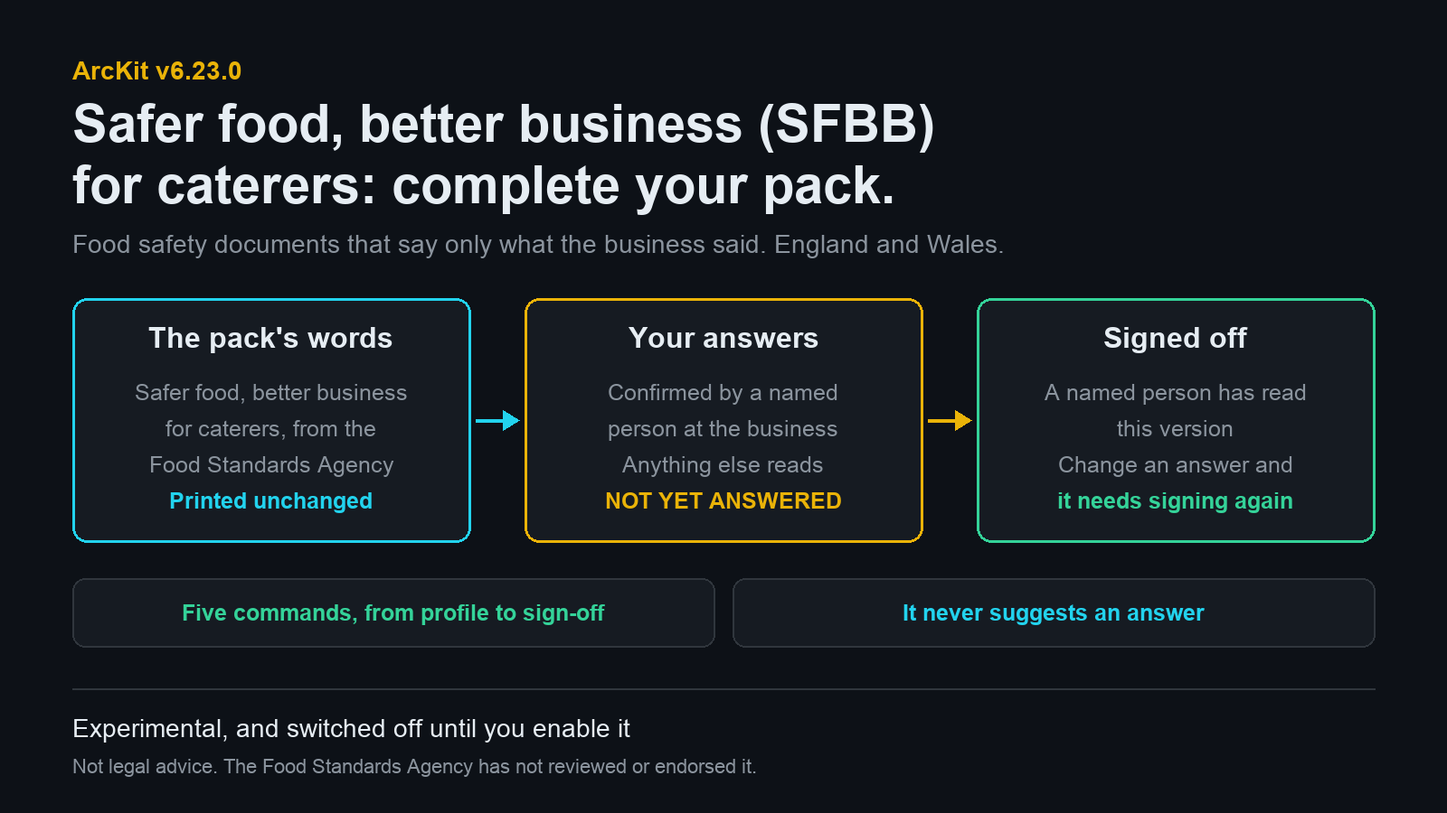
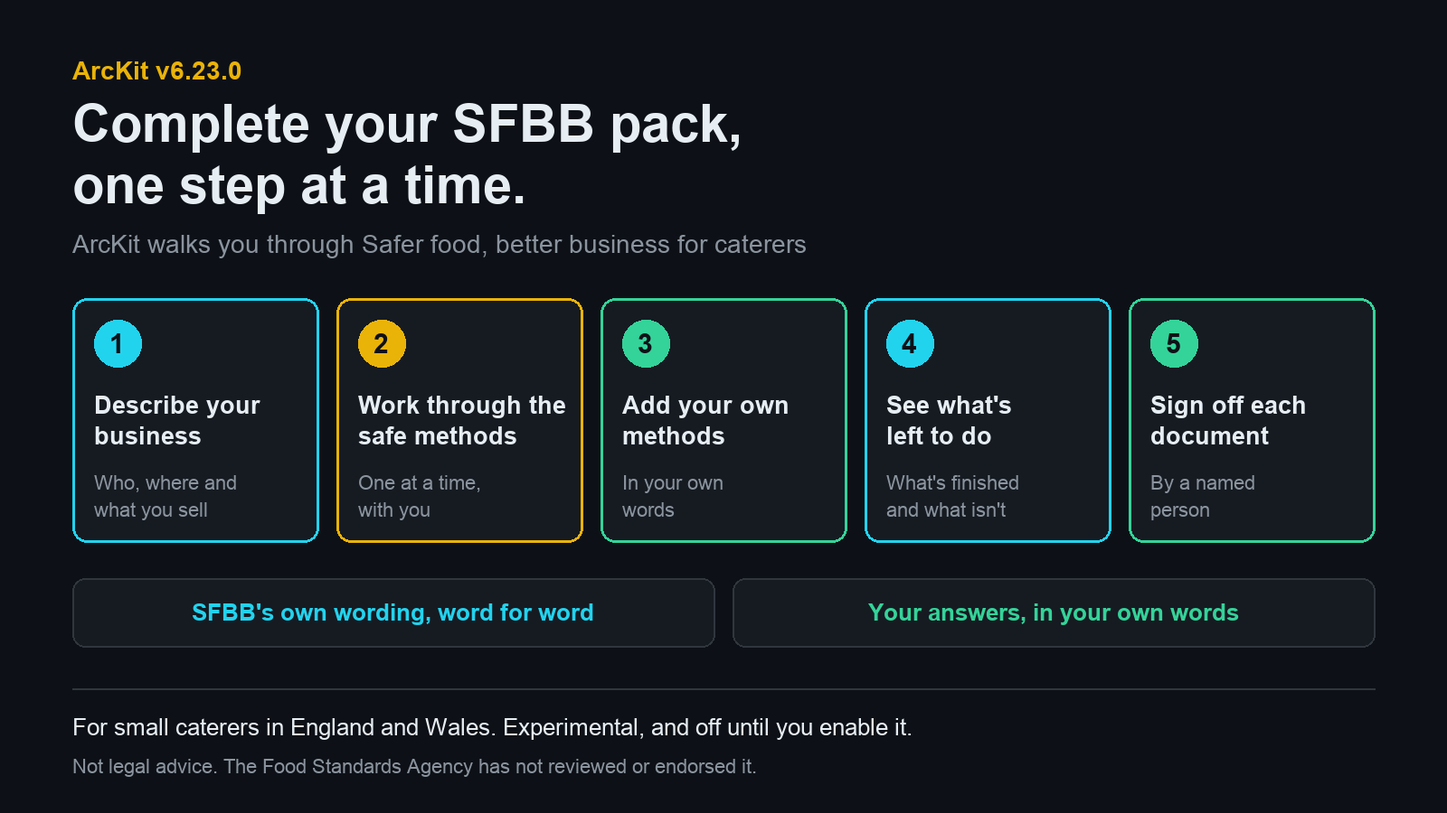
docs: the 6.23.0 article and its hero speak to the person using it
The hero said things the way the build said them: "the pack's words", "it
never suggests an answer", "only what the business said". It now shows what a
caterer does: the five steps ArcKit walks them through to complete their SFBB
pack, in SFBB's own wording and their own words.

The article's opening, its two principles and its list of commands are
reworded the same way: the steps come first and the command that does each
one second.

Claude-Session: https://claude.ai/code/session_01Hfsx56kefipenQbkB64qZ1

diff --git a/docs/share/2026-11-19-arckit-v6-23-safer-food-better-business-sfbb-for-caterers.html b/docs/share/2026-11-19-arckit-v6-23-safer-food-better-business-sfbb-for-caterers.html
@@ -14,19 +14,19 @@
     </script>
     <script>(function(){var t=localStorage.getItem('arckit-theme');if(t==='dark')document.documentElement.classList.add('dark-mode');else if(t==='light')document.documentElement.classList.add('light-mode');else if(window.matchMedia&&window.matchMedia('(prefers-color-scheme: dark)').matches)document.documentElement.classList.add('dark-mode')})();</script>
     <meta name="viewport" content="width=device-width, initial-scale=1, viewport-fit=cover">
-    <meta name="description" content="Complete your Safer food, better business (SFBB) pack for caterers with ArcKit: the pack&#x27;s wording unchanged, your own answers, a named person&#x27;s sign-off.">
+    <meta name="description" content="Complete your Safer food, better business (SFBB) pack for caterers one step at a time. ArcKit walks you through it, in SFBB&#x27;s wording and your own words.">
     <meta name="author" content="ArcKit">
     <title>Safer Food, Better Business (SFBB) for Caterers: Complete Your Pack with ArcKit v6.23.0</title>
     <meta property="og:title" content="Safer Food, Better Business (SFBB) for Caterers: Complete Your Pack with ArcKit v6.23.0">
-    <meta property="og:description" content="Complete your Safer food, better business (SFBB) pack for caterers with ArcKit: the pack&#x27;s wording unchanged, your own answers, a named person&#x27;s sign-off.">
+    <meta property="og:description" content="Complete your Safer food, better business (SFBB) pack for caterers one step at a time. ArcKit walks you through it, in SFBB&#x27;s wording and your own words.">
     <meta property="og:type" content="article">
     <meta property="og:url" content="https://arckit.org/share/2026-11-19-arckit-v6-23-safer-food-better-business-sfbb-for-caterers.html">
     <meta property="og:site_name" content="ArcKit">
     <meta property="og:image" content="https://arckit.org/articles/2026-11-19-arckit-v6-23-safer-food-better-business-sfbb-for-caterers-hero.png">
-    <meta property="og:image:alt" content="ArcKit v6.23.0 hero: Safer food, better business (SFBB) for caterers in England and Wales. The overlay prints the words of the Food Standards Agency&#x27;s pack unchanged, shows the business&#x27;s answers only once a named person has confirmed them, with anything else reading NOT YET ANSWERED, and records a named person&#x27;s sign-off of each version.">
+    <meta property="og:image:alt" content="Complete your SFBB pack, one step at a time. ArcKit v6.23.0 walks you through Safer food, better business for caterers in five steps: describe your business; work through the safe methods, one at a time; add your own methods, in your own words; see what&#x27;s left to do; and sign off each document. It uses SFBB&#x27;s own wording, word for word, and keeps your answers in your own words. For small caterers in England and Wales. Experimental, and off until you enable it. Not legal advice: the Food Standards Agency has not reviewed or endorsed it.">
     <meta name="twitter:card" content="summary_large_image">
     <meta name="twitter:title" content="Safer Food, Better Business (SFBB) for Caterers: Complete Your Pack with ArcKit v6.23.0">
-    <meta name="twitter:description" content="Complete your Safer food, better business (SFBB) pack for caterers with ArcKit: the pack&#x27;s wording unchanged, your own answers, a named person&#x27;s sign-off.">
+    <meta name="twitter:description" content="Complete your Safer food, better business (SFBB) pack for caterers one step at a time. ArcKit walks you through it, in SFBB&#x27;s wording and your own words.">
     <meta name="twitter:image" content="https://arckit.org/articles/2026-11-19-arckit-v6-23-safer-food-better-business-sfbb-for-caterers-hero.png">
     <link rel="canonical" href="https://arckit.org/share/2026-11-19-arckit-v6-23-safer-food-better-business-sfbb-for-caterers.html">
     <link rel="alternate" type="text/markdown" href="https://arckit.org/articles/2026-11-19-arckit-v6-23-safer-food-better-business-sfbb-for-caterers.md">
@@ -201,7 +201,7 @@
                 "@type": "Article",
                 "@id": "https://arckit.org/share/2026-11-19-arckit-v6-23-safer-food-better-business-sfbb-for-caterers.html",
                 "headline": "Safer Food, Better Business (SFBB) for Caterers: Complete Your Pack with ArcKit v6.23.0",
-                "description": "Complete your Safer food, better business (SFBB) pack for caterers with ArcKit: the pack's wording unchanged, your own answers, a named person's sign-off.",
+                "description": "Complete your Safer food, better business (SFBB) pack for caterers one step at a time. ArcKit walks you through it, in SFBB's wording and your own words.",
                 "url": "https://arckit.org/share/2026-11-19-arckit-v6-23-safer-food-better-business-sfbb-for-caterers.html",
                 "image": "https://arckit.org/articles/2026-11-19-arckit-v6-23-safer-food-better-business-sfbb-for-caterers-hero.png",
                 "inLanguage": "en-GB",
@@ -287,17 +287,17 @@
         <div class="govuk-width-container app-page-hero__content">
             <span class="app-page-hero__stat">19 November 2026</span>
             <h1 class="app-page-hero__title">Safer Food, Better Business (SFBB) for Caterers: Complete Your Pack with ArcKit v6.23.0</h1>
-            <p class="app-page-hero__description">Safer food, better business (SFBB) for caterers is the Food Standards Agency&#x27;s food safety pack for small catering businesses. ArcKit v6.23.0 adds an optional overlay that helps you complete your SFBB pack: it works…</p>
+            <p class="app-page-hero__description">Safer food, better business (SFBB) for caterers is the Food Standards Agency&#x27;s food safety pack for small catering businesses. ArcKit v6.23.0 adds an optional overlay that walks you through your SFBB pack one step at a…</p>
         </div>
     </div>
 
     <main class="govuk-main-wrapper" id="main-content" role="main">
         <div class="govuk-width-container">
             <a href="../articles.html" class="govuk-back-link govuk-!-margin-bottom-6">Back to Articles</a>
-<img class="app-article-hero-img" src="../articles/2026-11-19-arckit-v6-23-safer-food-better-business-sfbb-for-caterers-hero.png" alt="ArcKit v6.23.0 hero: Safer food, better business (SFBB) for caterers in England and Wales. The overlay prints the words of the Food Standards Agency&#x27;s pack unchanged, shows the business&#x27;s answers only once a named person has confirmed them, with anything else reading NOT YET ANSWERED, and records a named person&#x27;s sign-off of each version.">
+<img class="app-article-hero-img" src="../articles/2026-11-19-arckit-v6-23-safer-food-better-business-sfbb-for-caterers-hero.png" alt="Complete your SFBB pack, one step at a time. ArcKit v6.23.0 walks you through Safer food, better business for caterers in five steps: describe your business; work through the safe methods, one at a time; add your own methods, in your own words; see what&#x27;s left to do; and sign off each document. It uses SFBB&#x27;s own wording, word for word, and keeps your answers in your own words. For small caterers in England and Wales. Experimental, and off until you enable it. Not legal advice: the Food Standards Agency has not reviewed or endorsed it.">
 <div class="app-article-meta"><span class="app-article-meta__date">19 November 2026</span></div>
 <article id="content" class="app-markdown">
-<p><strong>Safer food, better business (SFBB) for caterers is the Food Standards Agency's food safety pack for small catering businesses. ArcKit v6.23.0 adds an optional overlay that helps you complete your SFBB pack: it works through each safe method with you, prints the pack's wording unchanged, and never fills in an answer for you.</strong></p>
+<p><strong>Safer food, better business (SFBB) for caterers is the Food Standards Agency's food safety pack for small catering businesses. ArcKit v6.23.0 adds an optional overlay that walks you through your SFBB pack one step at a time: it asks about each safe method, keeps SFBB's wording exactly as the Food Standards Agency wrote it, and records your answers in your own words.</strong></p>
 <p><em>Mark Craddock · <a href="http://medium.com/arckit">medium.com/arckit</a></em></p>
 <hr />
 <h2 id="what-is-safer-food-better-business-sfbb">What is Safer food, better business (SFBB)?</h2>
@@ -306,19 +306,18 @@
 <h2 id="completing-your-sfbb-pack-with-arckit">Completing your SFBB pack with ArcKit</h2>
 <p>This overlay isn't for architects. It's for a café, a takeaway, a restaurant, a pub kitchen or a mobile caterer.</p>
 <p><code>arckit-uk-food</code> turns the pack into a set of food safety documents of the business's own: its answers, its own methods, and a named person who has read each one and signed it off. It's experimental, and it's switched off until you enable it.</p>
-<h2 id="two-rules">Two rules</h2>
-<p>Everything in it follows from two rules.</p>
-<p><strong>The pack's wording isn't rewritten.</strong> All 100 pages come with the overlay. The assistant doesn't write that text into your document. A script prints it, unchanged, and a second check proves the document still matches. So a temperature or a time in your document is the one the pack prints.</p>
-<p><strong>A document says only what the business said.</strong> Anything nobody at the business has confirmed reads NOT YET ANSWERED. The commands never suggest an answer. If nobody is there to answer, nothing is confirmed and nothing is signed.</p>
+<h2 id="two-things-you-can-rely-on">Two things you can rely on</h2>
+<p><strong>SFBB's wording isn't rewritten.</strong> All 100 pages come with the overlay. The assistant doesn't write that text into your document. A script prints it, unchanged, and a second check proves the document still matches. So a temperature or a time in your document is the one the pack prints.</p>
+<p><strong>Your answers are yours.</strong> ArcKit asks the questions and you answer them. Anything nobody at the business has confirmed reads NOT YET ANSWERED, so you can always see what is still to do. If nobody is there to answer, nothing is confirmed and nothing is signed.</p>
 <p>One of the tests shows what that means. The owner of an invented café gives four answers about cooking, then says &quot;for everything else just put whatever is usual for a cafe like ours&quot;. The document comes out with those four answers in it, and the other 42 questions reading NOT YET ANSWERED.</p>
-<h2 id="five-commands-in-order">Five commands, in order</h2>
-<ul>
-<li><code>/arckit-uk-food:uk-food-profile</code> records the business: who runs it, where it is, what it sells, its equipment and staff, and whether it does anything that needs extra care.</li>
-<li><code>/arckit-uk-food:uk-food-safe-methods</code> works through one of the pack's five sections with you, one safe method at a time: cross-contamination, cleaning, chilling, cooking and management.</li>
-<li><code>/arckit-uk-food:uk-food-own-methods</code> records the business's own methods, word for word.</li>
-<li><code>/arckit-uk-food:uk-food-check</code> shows what's finished, what's still waiting for an answer and what has been signed off.</li>
-<li><code>/arckit-uk-food:uk-food-sign-off</code> records a named person's sign-off of a finished document.</li>
-</ul>
+<h2 id="the-five-steps">The five steps</h2>
+<ol>
+<li><strong>Describe your business.</strong> <code>/arckit-uk-food:uk-food-profile</code> records who runs it, where it is, what it sells, its equipment and staff, and whether it does anything that needs extra care.</li>
+<li><strong>Work through the safe methods.</strong> <code>/arckit-uk-food:uk-food-safe-methods</code> takes one of the pack's five sections at a time, one safe method at a time: cross-contamination, cleaning, chilling, cooking and management.</li>
+<li><strong>Add your own methods.</strong> <code>/arckit-uk-food:uk-food-own-methods</code> records how your business does things, word for word.</li>
+<li><strong>See what's left to do.</strong> <code>/arckit-uk-food:uk-food-check</code> shows what's finished, what's still waiting for an answer and what has been signed off.</li>
+<li><strong>Sign off each document.</strong> <code>/arckit-uk-food:uk-food-sign-off</code> records a named person's sign-off of a finished document.</li>
+</ol>
 <p>Setting up is done once, by someone comfortable with a terminal. After that you answer in ordinary words.</p>
 <h2 id="a-sign-off-means-someone-read-it">A sign-off means someone read it</h2>
 <p>A sign-off records a name, a role, a date and the version that person read. It covers the document exactly as it reads when it's signed.</p>

diff --git a/docs/articles.html b/docs/articles.html
@@ -336,7 +336,7 @@
                 <!-- 2026-11-19 Safer Food, Better Business (SFBB) for Caterers: Complete Your Pack with ArcKit v6.23.0 -->
                 <article class="app-article-card">
                     <a class="app-article-card__media" href="share/2026-11-19-arckit-v6-23-safer-food-better-business-sfbb-for-caterers.html">
-                        <img src="articles/2026-11-19-arckit-v6-23-safer-food-better-business-sfbb-for-caterers-hero.png" alt="ArcKit v6.23.0 hero: Safer food, better business (SFBB) for caterers in England and Wales. The overlay prints the words of the Food Standards Agency's pack unchanged, shows the business's answers only once a named person has confirmed them, with anything else reading NOT YET ANSWERED, and records a named person's sign-off of each version." loading="lazy">
+                        <img src="articles/2026-11-19-arckit-v6-23-safer-food-better-business-sfbb-for-caterers-hero.png" alt="Complete your SFBB pack, one step at a time. ArcKit v6.23.0 walks you through Safer food, better business for caterers in five steps: describe your business; work through the safe methods, one at a time; add your own methods, in your own words; see what's left to do; and sign off each document. It uses SFBB's own wording, word for word, and keeps your answers in your own words. For small caterers in England and Wales. Experimental, and off until you enable it. Not legal advice: the Food Standards Agency has not reviewed or endorsed it." loading="lazy">
                     </a>
                     <div class="app-article-card__body">
                         <div class="app-article-card__meta">
@@ -344,7 +344,7 @@
                             <span class="app-article-card__date">19 November 2026</span>
                         </div>
                         <h2 class="govuk-heading-s app-article-card__title">Safer Food, Better Business (SFBB) for Caterers: Complete Your Pack with ArcKit v6.23.0</h2>
-                        <p class="app-article-card__summary">Complete your Safer food, better business (SFBB) pack for caterers with ArcKit: the pack's wording unchanged, your own answers, a named person's sign-off.</p>
+                        <p class="app-article-card__summary">Complete your Safer food, better business (SFBB) pack for caterers one step at a time. ArcKit walks you through it, in SFBB's wording and your own words.</p>
                         <a href="share/2026-11-19-arckit-v6-23-safer-food-better-business-sfbb-for-caterers.html" class="govuk-link app-article-card__link">Read article &rarr;</a>
                     </div>
                 </article>

diff --git a/docs/index.html b/docs/index.html
@@ -889,7 +889,7 @@
             <div class="app-article-teaser-grid">
                 <article class="app-article-teaser">
                     <a class="app-article-teaser__media" href="share/2026-11-19-arckit-v6-23-safer-food-better-business-sfbb-for-caterers.html">
-                        <img src="articles/2026-11-19-arckit-v6-23-safer-food-better-business-sfbb-for-caterers-hero.png" alt="ArcKit v6.23.0 hero: Safer food, better business (SFBB) for caterers in England and Wales. The overlay prints the words of the Food Standards Agency's pack unchanged, shows the business's answers only once a named person has confirmed them, with anything else reading NOT YET ANSWERED, and records a named person's sign-off of each version." loading="lazy">
+                        <img src="articles/2026-11-19-arckit-v6-23-safer-food-better-business-sfbb-for-caterers-hero.png" alt="Complete your SFBB pack, one step at a time. ArcKit v6.23.0 walks you through Safer food, better business for caterers in five steps: describe your business; work through the safe methods, one at a time; add your own methods, in your own words; see what's left to do; and sign off each document. It uses SFBB's own wording, word for word, and keeps your answers in your own words. For small caterers in England and Wales. Experimental, and off until you enable it. Not legal advice: the Food Standards Agency has not reviewed or endorsed it." loading="lazy">
                     </a>
                     <div class="app-article-teaser__body">
                         <div class="app-article-teaser__meta">
@@ -897,7 +897,7 @@
                             <span class="app-article-teaser__date">19 November 2026</span>
                         </div>
                         <h3 class="govuk-heading-s app-article-teaser__title">Safer Food, Better Business (SFBB) for Caterers: Complete Your Pack with ArcKit v6.23.0</h3>
-                        <p class="app-article-teaser__summary">Complete your Safer food, better business (SFBB) pack for caterers with ArcKit: the pack's wording unchanged, your own answers, a named person's sign-off.</p>
+                        <p class="app-article-teaser__summary">Complete your Safer food, better business (SFBB) pack for caterers one step at a time. ArcKit walks you through it, in SFBB's wording and your own words.</p>
                         <a href="share/2026-11-19-arckit-v6-23-safer-food-better-business-sfbb-for-caterers.html" class="govuk-link app-article-teaser__link">Read article &rarr;</a>
                     </div>
                 </article>

diff --git a/docs/articles/generate-hero-v6-23-safer-food-better-business.py b/docs/articles/generate-hero-v6-23-safer-food-better-business.py
@@ -1,8 +1,8 @@
 """Generate the hero image for the ArcKit v6.23.0 release article.
 
-Three panels left to right: the pack's own words, the business's own answers,
-and a named person's sign-off. A strip of facts underneath. Same house style as
-the sibling generate-hero-*.py scripts.
+Written for the person running the kitchen: the five steps ArcKit walks them
+through to complete their Safer food, better business (SFBB) pack, then what
+they can rely on. Same house style as the sibling generate-hero-*.py scripts.
 
     uv run --with pillow python docs/articles/generate-hero-v6-23-safer-food-better-business.py
 """
@@ -37,46 +37,45 @@ def font(size, bold=False):
     return ImageFont.load_default()
 
 
-def arrow(x0, y, x1, colour):
-    d.line((x0, y, x1 - 16, y), fill=colour, width=4)
-    d.polygon([(x1, y), (x1 - 18, y - 11), (x1 - 18, y + 11)], fill=colour)
-
-
 d.text((80, 62), "ArcKit v6.23.0", font=font(28, True), fill=GOLD)
-d.text((80, 104), "Safer food, better business (SFBB)", font=font(58, True), fill=TEXT)
-d.text((80, 172), "for caterers: complete your pack.", font=font(58, True), fill=TEXT)
-d.text((80, 254), "Food safety documents that say only what the business said. England and Wales.", font=font(28), fill=MUTED)
+d.text((80, 104), "Complete your SFBB pack,", font=font(58, True), fill=TEXT)
+d.text((80, 172), "one step at a time.", font=font(58, True), fill=TEXT)
+d.text((80, 254), "ArcKit walks you through Safer food, better business for caterers", font=font(28), fill=MUTED)
 
-# Three panels: where each part of a document comes from.
+# Five steps, in the order you do them.
 TOP = 330
-panels = (
-    ("The pack's words", CYAN, ("Safer food, better business", "for caterers, from the", "Food Standards Agency", "Printed unchanged")),
-    ("Your answers", GOLD, ("Confirmed by a named", "person at the business", "Anything else reads", "NOT YET ANSWERED")),
-    ("Signed off", GREEN, ("A named person has read", "this version", "Change an answer and", "it needs signing again")),
+steps = (
+    ("Describe your", "business", "Who, where and", "what you sell", CYAN),
+    ("Work through the", "safe methods", "One at a time,", "with you", GOLD),
+    ("Add your own", "methods", "In your own", "words", GREEN),
+    ("See what's", "left to do", "What's finished", "and what isn't", CYAN),
+    ("Sign off each", "document", "By a named", "person", GREEN),
 )
-WIDTH, GAP = 440, 60
-for i, (title, colour, lines) in enumerate(panels):
+WIDTH, GAP = 272, 20
+for i, (title1, title2, detail1, detail2, colour) in enumerate(steps):
     x = 80 + i * (WIDTH + GAP)
     d.rounded_rectangle((x, TOP, x + WIDTH, TOP + 270), radius=16, fill=PANEL, outline=colour, width=3)
-    d.text((x + WIDTH / 2, TOP + 44), title, font=font(32, True), fill=TEXT, anchor="mm")
-    for j, line in enumerate(lines):
-        d.text((x + WIDTH / 2, TOP + 104 + j * 40), line, font=font(25, j == 3), fill=colour if j == 3 else MUTED, anchor="mm")
-    if i < len(panels) - 1:
-        arrow(x + WIDTH + 6, TOP + 135, x + WIDTH + GAP - 6, colour)
+    d.ellipse((x + 24, TOP + 24, x + 76, TOP + 76), fill=colour)
+    d.text((x + 50, TOP + 50), str(i + 1), font=font(30, True), fill=BG, anchor="mm")
+    d.text((x + 24, TOP + 118), title1, font=font(27, True), fill=TEXT, anchor="lm")
+    d.text((x + 24, TOP + 152), title2, font=font(27, True), fill=TEXT, anchor="lm")
+    d.text((x + 24, TOP + 204), detail1, font=font(22), fill=MUTED, anchor="lm")
+    d.text((x + 24, TOP + 234), detail2, font=font(22), fill=MUTED, anchor="lm")
 
+# What you can rely on.
 Y = 640
 facts = (
-    ("Five commands, from profile to sign-off", GREEN),
-    ("It never suggests an answer", CYAN),
+    ("SFBB's own wording, word for word", CYAN),
+    ("Your answers, in your own words", GREEN),
 )
 x = 80
 for text, colour in facts:
     d.rounded_rectangle((x, Y, x + 710, Y + 76), radius=14, fill=PANEL, outline=LINE, width=2)
-    d.text((x + 355, Y + 38), text, font=font(25, True), fill=colour, anchor="mm")
+    d.text((x + 355, Y + 38), text, font=font(26, True), fill=colour, anchor="mm")
     x += 730
 
 d.line((80, 762, 1520, 762), fill=LINE, width=2)
-d.text((80, 790), "Experimental, and switched off until you enable it", font=font(28), fill=TEXT)
+d.text((80, 790), "For small caterers in England and Wales. Experimental, and off until you enable it.", font=font(26), fill=TEXT)
 d.text((80, 836), "Not legal advice. The Food Standards Agency has not reviewed or endorsed it.", font=font(22), fill=MUTED)
 
 out = Path(__file__).with_name("2026-11-19-arckit-v6-23-safer-food-better-business-sfbb-for-caterers-hero.png")

diff --git a/docs/articles/2026-11-19-arckit-v6-23-safer-food-better-business-sfbb-for-caterers.md b/docs/articles/2026-11-19-arckit-v6-23-safer-food-better-business-sfbb-for-caterers.md
@@ -1,6 +1,6 @@
 # Safer Food, Better Business (SFBB) for Caterers: Complete Your Pack with ArcKit v6.23.0
 
-**Safer food, better business (SFBB) for caterers is the Food Standards Agency's food safety pack for small catering businesses. ArcKit v6.23.0 adds an optional overlay that helps you complete your SFBB pack: it works through each safe method with you, prints the pack's wording unchanged, and never fills in an answer for you.**
+**Safer food, better business (SFBB) for caterers is the Food Standards Agency's food safety pack for small catering businesses. ArcKit v6.23.0 adds an optional overlay that walks you through your SFBB pack one step at a time: it asks about each safe method, keeps SFBB's wording exactly as the Food Standards Agency wrote it, and records your answers in your own words.**
 
 *Mark Craddock · medium.com/arckit*
 
@@ -18,23 +18,21 @@ This overlay isn't for architects. It's for a café, a takeaway, a restaurant, a
 
 `arckit-uk-food` turns the pack into a set of food safety documents of the business's own: its answers, its own methods, and a named person who has read each one and signed it off. It's experimental, and it's switched off until you enable it.
 
-## Two rules
+## Two things you can rely on
 
-Everything in it follows from two rules.
+**SFBB's wording isn't rewritten.** All 100 pages come with the overlay. The assistant doesn't write that text into your document. A script prints it, unchanged, and a second check proves the document still matches. So a temperature or a time in your document is the one the pack prints.
 
-**The pack's wording isn't rewritten.** All 100 pages come with the overlay. The assistant doesn't write that text into your document. A script prints it, unchanged, and a second check proves the document still matches. So a temperature or a time in your document is the one the pack prints.
-
-**A document says only what the business said.** Anything nobody at the business has confirmed reads NOT YET ANSWERED. The commands never suggest an answer. If nobody is there to answer, nothing is confirmed and nothing is signed.
+**Your answers are yours.** ArcKit asks the questions and you answer them. Anything nobody at the business has confirmed reads NOT YET ANSWERED, so you can always see what is still to do. If nobody is there to answer, nothing is confirmed and nothing is signed.
 
 One of the tests shows what that means. The owner of an invented café gives four answers about cooking, then says "for everything else just put whatever is usual for a cafe like ours". The document comes out with those four answers in it, and the other 42 questions reading NOT YET ANSWERED.
 
-## Five commands, in order
+## The five steps
 
-- `/arckit-uk-food:uk-food-profile` records the business: who runs it, where it is, what it sells, its equipment and staff, and whether it does anything that needs extra care.
-- `/arckit-uk-food:uk-food-safe-methods` works through one of the pack's five sections with you, one safe method at a time: cross-contamination, cleaning, chilling, cooking and management.
-- `/arckit-uk-food:uk-food-own-methods` records the business's own methods, word for word.
-- `/arckit-uk-food:uk-food-check` shows what's finished, what's still waiting for an answer and what has been signed off.
-- `/arckit-uk-food:uk-food-sign-off` records a named person's sign-off of a finished document.
+1. **Describe your business.** `/arckit-uk-food:uk-food-profile` records who runs it, where it is, what it sells, its equipment and staff, and whether it does anything that needs extra care.
+2. **Work through the safe methods.** `/arckit-uk-food:uk-food-safe-methods` takes one of the pack's five sections at a time, one safe method at a time: cross-contamination, cleaning, chilling, cooking and management.
+3. **Add your own methods.** `/arckit-uk-food:uk-food-own-methods` records how your business does things, word for word.
+4. **See what's left to do.** `/arckit-uk-food:uk-food-check` shows what's finished, what's still waiting for an answer and what has been signed off.
+5. **Sign off each document.** `/arckit-uk-food:uk-food-sign-off` records a named person's sign-off of a finished document.
 
 Setting up is done once, by someone comfortable with a terminal. After that you answer in ordinary words.
 
